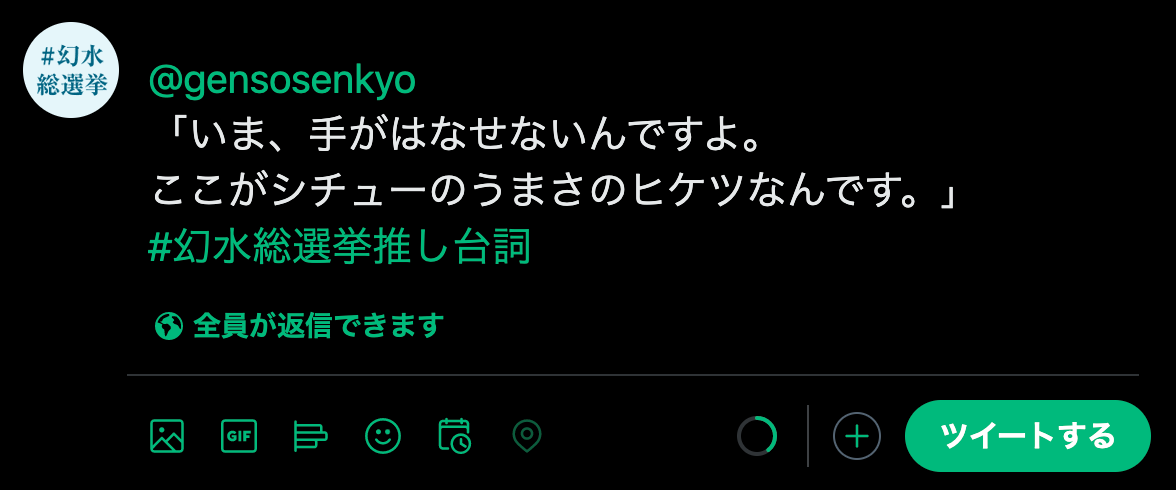
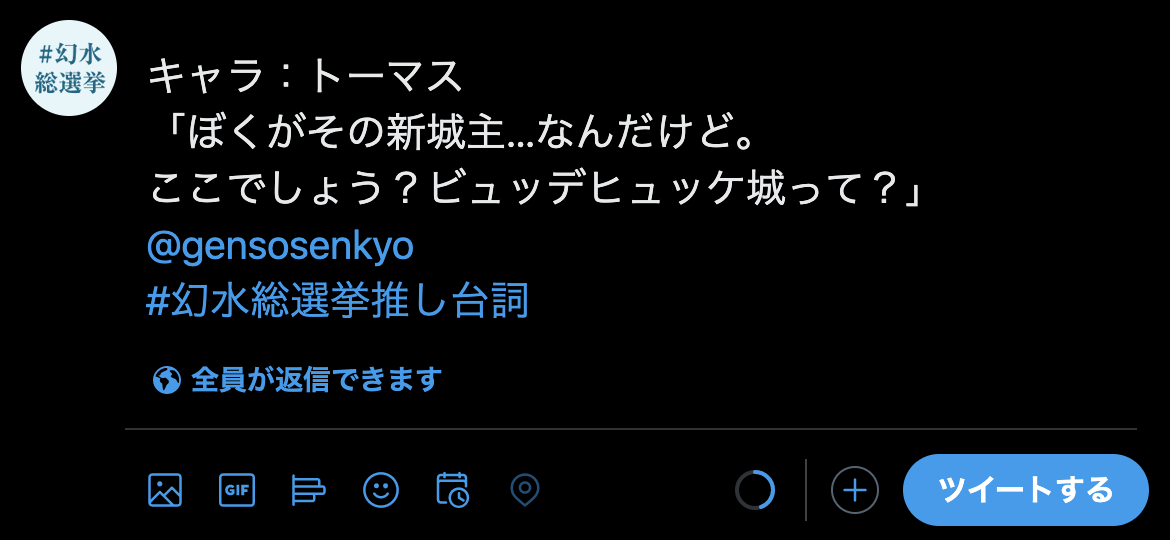
feat: 🎸 「推し台詞」を修正 (#357)
* feat: 🎸 「推し台詞」を修正

* feat: 🎸 画像の width & height 指定を修正した

* feat: 🎸 「いいね」を付けさせていただきます の部分を赤文字にした

diff --git a/pages/events-in-event/oshi-serif.tsx b/pages/events-in-event/oshi-serif.tsx
@@ -59,7 +59,7 @@ const OshiSerif: NextPage = () => {
               <h2 className="text-xl font-bold pb-4">詳細</h2>
               <div className="text-base text-left pb-4">
                 <ul className="list-disc pl-6 pr-2">
-                  <li className="pb-2">お一人様いくつでも投稿できます。</li>
+                  <li className="pb-2">お一人様でいくつでも投稿できます。</li>
                   <li className="pb-2">
                     公式小説や公式コミックスなど、
                     <span className="text-red-500">
@@ -68,7 +68,7 @@ const OshiSerif: NextPage = () => {
                     です。 （小説版や漫画版は出典を書いて下さい）
                   </li>
                   <li className="pb-2">
-                    昨年と同じ台詞をご投稿頂いても構いません。
+                    過去の総選挙で使用した台詞と同じものでも構いません。
                   </li>
                   <li className="pb-2">
                     1キャラに対して複数の台詞を頂きました場合、掲載する台詞は主催側で選ばせて頂きます。
@@ -105,7 +105,8 @@ const OshiSerif: NextPage = () => {
                     </li>
                   </ul>
                 </div>
-                を記載し、主催（@gensosenkyo）宛ツイートで投稿して下さい。
+                を記載し、「 <span className="font-bold">@gensosenkyo</span>{' '}
+                」宛ツイートで投稿して下さい。
                 よろしければ選んだ理由なども語って下さい。
               </div>
 
@@ -116,18 +117,34 @@ const OshiSerif: NextPage = () => {
                 <Image
                   src="/oshi_serif_sample.png"
                   alt="推し台詞ツイート例"
-                  width={1176}
-                  height={490}
+                  width={1170}
+                  height={540}
                 />
               </div>
 
               <div className="divider" />
 
-              <h3 className="text-xl font-bold pb-4">補足</h3>
+              <h3 className="text-xl font-bold pb-4">応募の受理</h3>
               <div className="text-base text-left pb-4">
-                非公開アカウントの方は、主催宛DMでお送り下さい。幻水総選挙サブアカウントから、キャラと推し台詞をツイートでご紹介します。
+                投稿ツイートには、幻水総選挙のサブアカウント（@sub_gensosenkyo）から
+                <span className="text-red-500">
+                  「いいね」を付けさせていただきます。
+                </span>
                 <br />
-                これにより、台詞がボーナス票の対象となります。
+                これをもってご応募が受理されたものといたします。
+                <br />
+                ※投稿から一週間経っても「いいね」がない場合は、お手数ですがDMにてお問い合わせ下さい。
+              </div>
+
+              <div className="divider" />
+
+              <h3 className="text-xl font-bold pb-4">非公開アカウントの方へ</h3>
+              <div className="text-base text-left pb-4">
+                非公開アカウントの方は、主催宛DMでお送り下さい。
+                <br />
+                幻水総選挙のサブアカウント（@sub_gensosenkyo）から、キャラ名と推し台詞をツイートします。
+                <br />
+                これにより、応募した台詞がボーナス票の対象となります。
               </div>
             </div>
           </div>

diff --git a/components/Kikaku.tsx b/components/Kikaku.tsx
@@ -62,13 +62,11 @@ const Kikaku: NextPage = () => {
                     </Link>
                   </li>
                   <li className="pb-4">
-                    {/* <Link href="/events-in-event/oshi-serif" passHref> */}
-                    {/* <span className="link link-hover underline underline-offset-4 text-blue-500 hover:text-blue-900"> */}
-                    {locale === 'ja'
-                      ? '推し台詞教えて！（準備中）'
-                      : 'Fave quote (in progress)'}
-                    {/* </span> */}
-                    {/* </Link> */}
+                    <Link href="/events-in-event/oshi-serif" passHref>
+                      <span className="link link-hover underline underline-offset-4 text-blue-500 hover:text-blue-900">
+                        {locale === 'ja' ? '推し台詞教えて！' : 'Fave quote'}
+                      </span>
+                    </Link>
                   </li>
                   <li className="pb-4">
                     <Link href="/events-in-event/op-cl-illustrations" passHref>

diff --git a/components/HumbergerMenu/HumbergerNavigation.tsx b/components/HumbergerMenu/HumbergerNavigation.tsx
@@ -88,13 +88,13 @@ const Navigation = () => {
                     </li>
                     <li className="py-2">
                       <div className="text-base">
-                        {/* <Link href="/events-in-event/oshi-serif" passHref> */}
-                        {/* <span className="link link-hover underline-offset-4"> */}
-                        {locale === 'ja'
-                          ? '推し台詞教えて！（準備中）'
-                          : 'Fave quote (in progress)'}
-                        {/* </span> */}
-                        {/* </Link> */}
+                        <Link href="/events-in-event/oshi-serif" passHref>
+                          <span className="link link-hover underline-offset-4">
+                            {locale === 'ja'
+                              ? '推し台詞教えて！'
+                              : 'Fave quote'}
+                          </span>
+                        </Link>
                       </div>
                     </li>
                     <li className="py-2">
